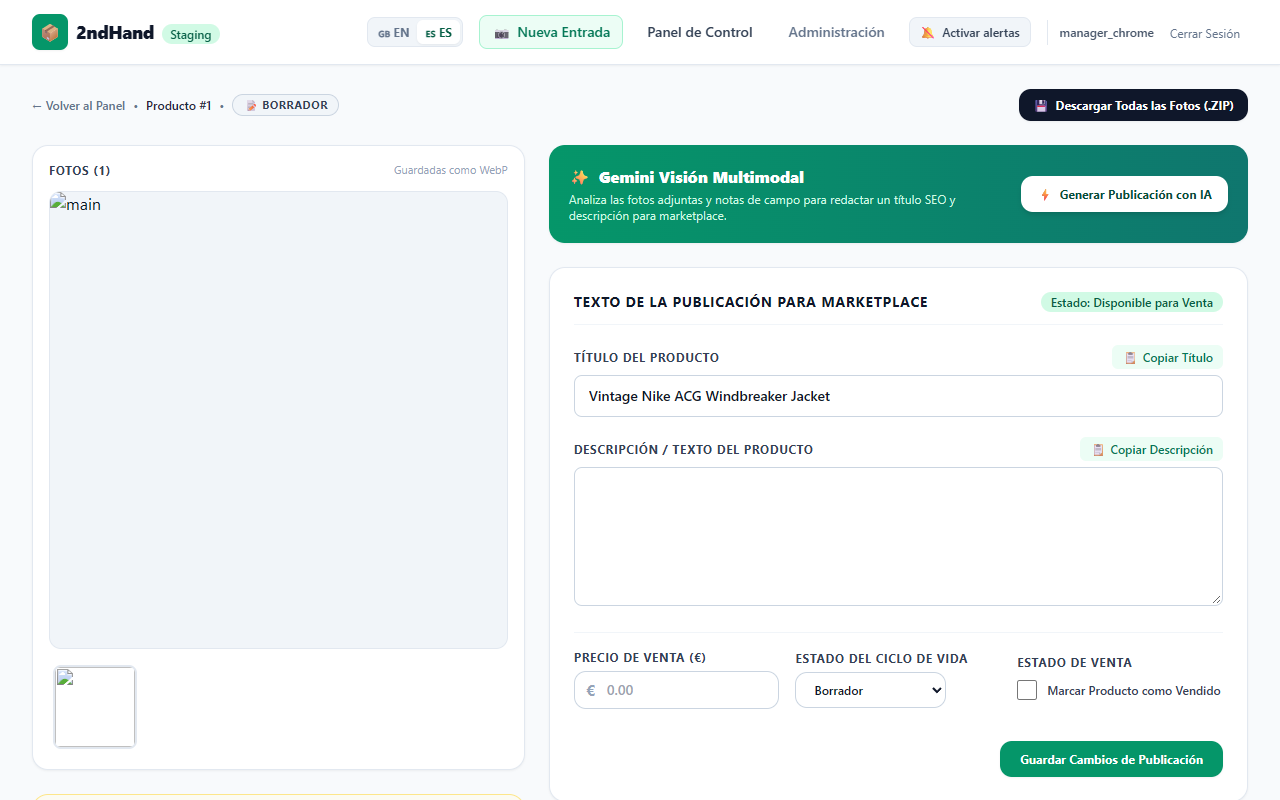
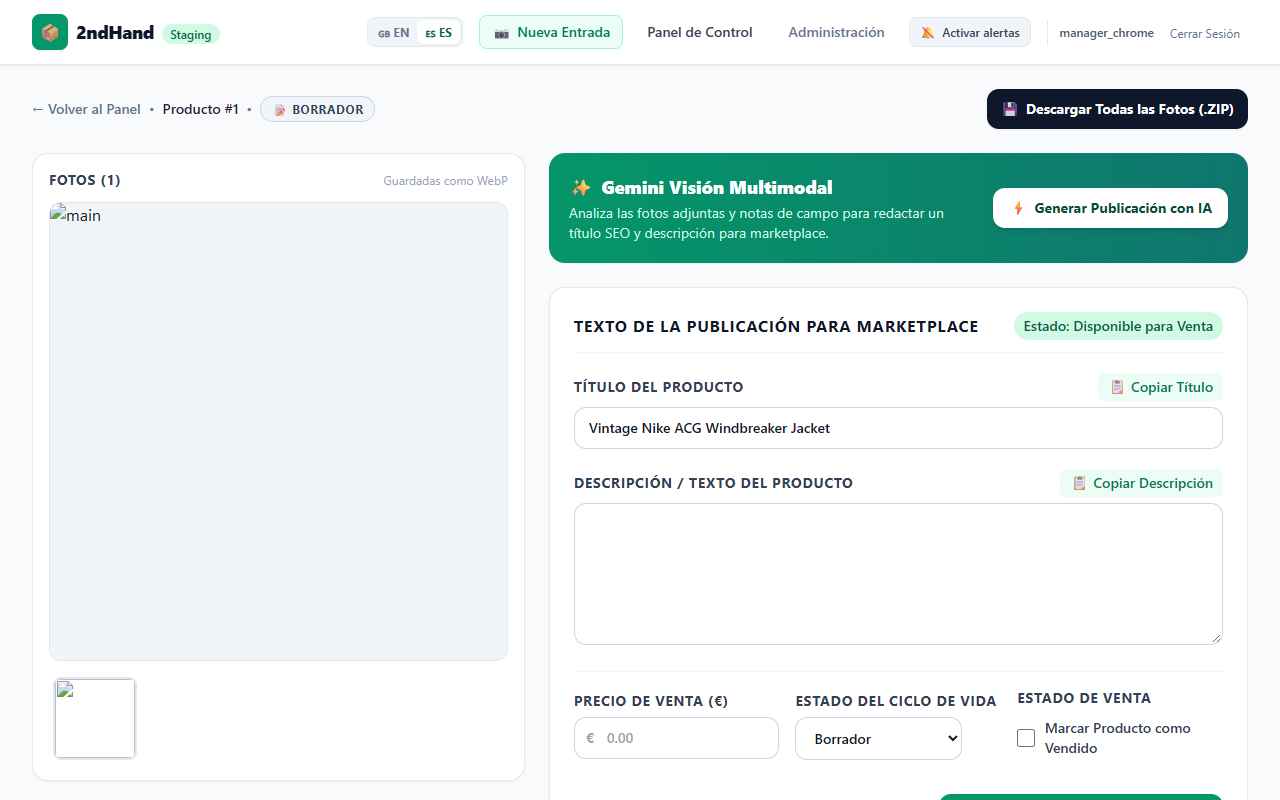
docs(tracking): update CHANGELOG, plan, and todo for Phases 20, 21, and 22
- Document PWA installability, Web Push VAPID infrastructure, and live signal triggers (Phase 20)
- Document dashboard status toolbar modernization and horizontal scroll rail preventing apilacion (Phase 21)
- Document mobile typography scale standardization, micro-font elimination, and iOS auto-zoom prevention (Phase 22)
- Synchronize tasks/plan.md and tasks/todo.md checklists and checkpoints

diff --git a/tasks/todo.md b/tasks/todo.md
@@ -1630,6 +1630,67 @@ Implement `sync_lifecycle_status()` on `Product` and connect signals on `Product
 - [x] `.env` flag `PUSH_NOTIFICATIONS_LIVE_SIGNALS` controls automatic signal-driven push alerts for Clarification Doubts and Draft/Price Pending bottlenecks.
 - [x] All unit tests, browser tests, and Ruff lint checks pass with 0 regressions.
 
+---
+
+## Phase 21: Dashboard Status Toolbar Modernization & Apilación Prevention (Vertical Slice 17)
+
+### Task 70: Horizontal Status Navigation Rail, Toolbar Decoupling & Multi-Viewport Anti-Apilación Verification
+**Description:** Refactor [`inventory/templates/inventory/dashboard.html`](file:///C:/Users/Jose/antigravity/epic-tesla/inventory/templates/inventory/dashboard.html) to decouple the status navigation tabs from the action/filter toolbar (search input and platform selector). Enclose status tabs in an accessible `<nav role="tablist">` with horizontal scrolling (`overflow-x-auto`, `flex-nowrap`, `whitespace-nowrap`, hidden scrollbars) and smooth touch momentum scrolling (`-webkit-overflow-scrolling: touch`). Upgrade all status tab touch targets to $\ge 36\text{px}$ height with responsive padding and badge counters. Add Playwright multi-viewport responsive test `test_dashboard_responsive_tabs_no_apilation` in [`tests/test_dashboard_responsive.py`](file:///C:/Users/Jose/antigravity/epic-tesla/tests/test_dashboard_responsive.py) testing across 390px, 768px, 1024px, and 1440px viewports and asserting that all tabs share identical vertical offset ($\Delta \le 4\text{px}$) with zero apilación.
+**Acceptance criteria:**
+- [x] Status navigation tabs sit in a single horizontal scroll rail without wrapping or piling up vertically across mobile and tablet viewports.
+- [x] Filter toolbar (search and platform select) is cleanly isolated beneath the status rail.
+- [x] All tabs meet WCAG touch target standards ($\ge 36\text{px}$ mobile / $32\text{px}$ desktop).
+- [x] Playwright multi-viewport automated test passes across 4 standard screen widths with audit screenshots captured in `browser_verification_screenshots/`.
+**Verification:**
+- [x] Test passes: `.venv\Scripts\python.exe manage.py test tests.test_dashboard_responsive`
+**Dependencies:** None
+**Files likely touched:**
+- `inventory/templates/inventory/dashboard.html`
+- `tests/test_dashboard_responsive.py`
+**Estimated scope:** Small (2 files)
+
+---
+
+## Checkpoint 21: Dashboard Status Toolbar Modernization Complete
+- [x] Horizontal scroll rail prevents tab apilación across mobile, tablet, laptop, and desktop viewports.
+- [x] Status filter tab touch targets and counter badges satisfy WCAG standards.
+- [x] Playwright multi-viewport responsive tests pass and screenshots are stored for visual audit.
+
+---
+
+## Phase 22: Responsive Mobile Typography & Form Readability Adaptation (Vertical Slice 18)
+
+### Task 71: Standardize Mobile Typography Scale, Eliminate Microscopic Fonts & Prevent iOS Safari Auto-Zoom
+**Description:** Audit and adapt typography across all key application templates ([`base.html`](file:///C:/Users/Jose/antigravity/epic-tesla/inventory/templates/inventory/base.html), [`dashboard.html`](file:///C:/Users/Jose/antigravity/epic-tesla/inventory/templates/inventory/dashboard.html), [`intake.html`](file:///C:/Users/Jose/antigravity/epic-tesla/inventory/templates/inventory/intake.html), [`product_detail.html`](file:///C:/Users/Jose/antigravity/epic-tesla/inventory/templates/inventory/product_detail.html), [`login.html`](file:///C:/Users/Jose/antigravity/epic-tesla/inventory/templates/registration/login.html)) and form widgets ([`inventory/forms.py`](file:///C:/Users/Jose/antigravity/epic-tesla/inventory/forms.py)). Eliminate sub-12px arbitrary font sizes (`text-[10px]`, `text-[11px]`) and static unscaled `text-xs` on primary content, buttons, labels, and badges. Enforce input font sizes $\ge 16\text{px}$ on mobile (`text-base sm:text-sm` and `@media (max-width: 640px) { input, select, textarea { font-size: 1rem !important; } }`) to prevent iOS Safari auto-zoom. Remove `maximum-scale=1.0, user-scalable=no` for WCAG 2.1 AA pinch-to-zoom compliance, and add `<meta name="text-scale" content="scale">` for OS dynamic type preferences. Add Playwright test `test_mobile_typography_and_input_font_sizes` in [`tests/test_dashboard_responsive.py`](file:///C:/Users/Jose/antigravity/epic-tesla/tests/test_dashboard_responsive.py) asserting computed input font-size $\ge 16\text{px}$ on 390x844 mobile viewport and capturing visual screenshots.
+**Acceptance criteria:**
+- [x] Arbitrary `text-[10px]` and `text-[11px]` classes eliminated; critical text scaled to `text-xs sm:text-sm` or `text-sm sm:text-base`.
+- [x] All form inputs render at $\ge 16\text{px}$ on mobile screens preventing involuntary iOS Safari auto-zoom.
+- [x] Viewport meta tag allows pinch-to-zoom up to 200% and `<meta name="text-scale" content="scale">` is active.
+- [x] Full test suite (299 tests) passes cleanly and `ruff check .` passes with 0 issues.
+- [x] Playwright assertions confirm computed font size $\ge 16\text{px}$ on mobile viewports.
+**Verification:**
+- [x] Full test suite passes: `.venv\Scripts\python.exe manage.py test`
+- [x] Responsive tests pass: `.venv\Scripts\python.exe manage.py test tests.test_dashboard_responsive`
+- [x] Linter passes: `.venv\Scripts\ruff.exe check .`
+**Dependencies:** Task 70
+**Files likely touched:**
+- `inventory/templates/inventory/base.html`
+- `inventory/templates/inventory/dashboard.html`
+- `inventory/templates/inventory/intake.html`
+- `inventory/templates/inventory/product_detail.html`
+- `inventory/templates/registration/login.html`
+- `inventory/forms.py`
+- `tests/test_dashboard_responsive.py`
+**Estimated scope:** Medium (7 files)
+
+---
+
+## Checkpoint 22: Responsive Mobile Typography & Form Readability Complete
+- [x] All application views render legible, comfortably readable typography on smartphone screens.
+- [x] Involuntary iOS Safari auto-zoom on form inputs is eliminated with computed font size $\ge 16\text{px}$.
+- [x] Pinch-to-zoom and OS dynamic text scaling preferences are supported.
+- [x] Automated unit and Playwright tests verify 100% compliance with zero regressions.
+
 
 
 

diff --git a/CHANGELOG.md b/CHANGELOG.md
@@ -20,6 +20,26 @@ and this project adheres to [Semantic Versioning](https://semver.org/spec/v2.0.0
   - **Automated Regression Test Suite**: Added end-to-end assertions in [`tests/test_intake.py`](file:///C:/Users/Jose/antigravity/epic-tesla/tests/test_intake.py) (`test_intake_sale_price_displays_in_dashboard_and_product_detail`) and [`tests/test_i18n.py`](file:///C:/Users/Jose/antigravity/epic-tesla/tests/test_i18n.py) verifying that intake prices render properly across dashboard and detail views under both English and Spanish locales.
 
 ### Added
+- **Mobile Typography & High-Readability Adaptation Across All Application Views**:
+  - **Eliminated Arbitrary Sub-12px Font Sizes**: Replaced arbitrary Tailwind classes (`text-[10px]`, `text-[11px]`) and static unscaled `text-xs` (12px) across [`dashboard.html`](file:///C:/Users/Jose/antigravity/epic-tesla/inventory/templates/inventory/dashboard.html), [`intake.html`](file:///C:/Users/Jose/antigravity/epic-tesla/inventory/templates/inventory/intake.html), [`product_detail.html`](file:///C:/Users/Jose/antigravity/epic-tesla/inventory/templates/inventory/product_detail.html), [`login.html`](file:///C:/Users/Jose/antigravity/epic-tesla/inventory/templates/registration/login.html), and [`base.html`](file:///C:/Users/Jose/antigravity/epic-tesla/inventory/templates/inventory/base.html) with responsive, legible type scales (`text-xs sm:text-sm`, `text-sm sm:text-base`).
+  - **iOS Safari Involuntary Auto-Zoom Prevention**: Upgraded all interactive text inputs, selects, and textareas across forms (`ProductIntakeForm`, `ProductUpdateForm`) and templates to render at `>= 16px` (`text-base sm:text-sm`) on mobile viewports with an explicit CSS safeguard:
+    ```css
+    @media (max-width: 640px) {
+      input:not([type="checkbox"]):not([type="radio"]):not([type="hidden"]), select, textarea {
+        font-size: 1rem !important; /* >= 16px prevents iOS Safari auto-zoom */
+      }
+    }
+    ```
+  - **WCAG 2.1 AA Zoom Compliance & OS Dynamic Type Scaling**: Removed `maximum-scale=1.0, user-scalable=no` from [`base.html`](file:///C:/Users/Jose/antigravity/epic-tesla/inventory/templates/inventory/base.html), satisfying WCAG 2.1 AA (SC 1.4.4 Resize text) allowing standard 200% pinch-to-zoom. Added `<meta name="text-scale" content="scale">` to support OS accessibility font scaling preferences.
+  - **Automated Playwright Typography Tests & Mobile Visual Captures**: Added `test_mobile_typography_and_input_font_sizes` in [`tests/test_dashboard_responsive.py`](file:///C:/Users/Jose/antigravity/epic-tesla/tests/test_dashboard_responsive.py) asserting computed `fontSize >= 16px` on standard mobile viewports ($390 \times 844$) and generated visual audit captures: `mobile_login_390x844.png`, `mobile_intake_390x844.png`, and `mobile_product_detail_390x844.png`.
+- **Dashboard Status Toolbar Modernization & Horizontal Scroll Rail (Elimination of Apilación)**:
+  - **Architecture Decoupling**: Refactored [`inventory/templates/inventory/dashboard.html`](file:///C:/Users/Jose/antigravity/epic-tesla/inventory/templates/inventory/dashboard.html) to decouple the status navigation tabs from the action/filter toolbar (search input and platform dropdown), preventing awkward vertical stacking/apilación on mobile and tablet devices.
+  - **Single-Line Horizontal Scroll Rail**: Built a dedicated `<nav role="tablist">` container utilizing `overflow-x-auto`, `flex-nowrap`, and `whitespace-nowrap` with vendor-prefixed scrollbar suppression (`scrollbar-none`, `-webkit-overflow-scrolling: touch`), allowing all 7 lifecycle status tabs (*Todos*, *Activo*, *Precio pendiente*, *Listo para publicar*, *Dudas*, *Bloqueado*, *Vendido*) to sit on a clean, scrollable horizontal track without wrapping.
+  - **WCAG 2.1 AA Touch Targets**: Upgraded all status tab links to full-height touch targets (minimum 36px–40px height on mobile / 32px on desktop) with prominent pill counters and focus indicators.
+  - **Automated Playwright Multi-Viewport Verification**: Added `test_dashboard_responsive_tabs_no_apilation` in [`tests/test_dashboard_responsive.py`](file:///C:/Users/Jose/antigravity/epic-tesla/tests/test_dashboard_responsive.py) executing real Chrome tests across 4 standard viewports (390px, 768px, 1024px, 1440px), verifying tab rail visibility, touch target heights, and strictly asserting that all tabs share the same vertical offset ($\Delta \le 4\text{px}$) with zero apilación. Captured visual audit screenshots in `browser_verification_screenshots/`.
+- **Automated E2E Workday Verification Suite & Comprehensive Normal Day Workflows**:
+  - Implemented comprehensive workday automated workflow script [`verify_workday_all_cases.py`](file:///C:/Users/Jose/antigravity/epic-tesla/verify_workday_all_cases.py) and test suite covering all cases and combinations: assistant login, intake preflight, clarification question creation, doubts filtering, assistant reply, auto-transition to ready, price pending staging, sale price assignment, external marketplace link management (Vinted, Wallapop), sold status marking, and unsold status reversal.
+  - Captured full visual verification screenshots in `browser_verification_screenshots/`.
 - **Installable PWA Support, VAPID Web Push Infrastructure & `.env`-Guarded Live Signal Triggers**:
   - **W3C Web App Manifest & Icons**: Added [`manifest_view`](file:///C:/Users/Jose/antigravity/epic-tesla/inventory/views.py) serving `/manifest.json` (`display: standalone`, `scope: /`, `theme_color: #059669`, shortcuts for Intake, Dashboard, and Pending Doubts) and generated branded PNG icons (`icon-192.png`, `icon-512.png`, `apple-touch-icon.png`) under `inventory/static/inventory/icons/`.
   - **Root Pass-Through Service Worker (`/sw.js`)**: Added [`service_worker_view`](file:///C:/Users/Jose/antigravity/epic-tesla/inventory/views.py) and [`inventory/templates/inventory/sw.js`](file:///C:/Users/Jose/antigravity/epic-tesla/inventory/templates/inventory/sw.js) with `Service-Worker-Allowed: /`, zero-cache pass-through `fetch` handler (preventing stale HTML/CSRF tokens), `push` notification display with `tag` deduplication and `navigator.setAppBadge` support, and `notificationclick` deep-linking.

diff --git a/tasks/plan.md b/tasks/plan.md
@@ -257,11 +257,23 @@ All uploaded photos are postprocessed on the server with Pillow to auto-orient, 
 ---
 
 ### Phase 20: Installable PWA Support, VAPID Web Push Infrastructure & Live Signal Triggers (Vertical Slice 16)
-- [ ] **Task 66:** PWA Web App Manifest (`/manifest.json`), App Icons (`192x192`, `512x512`, `apple-touch-icon`), Meta Tags & Root Pass-Through Service Worker (`/sw.js`) (`inventory/views.py`, `inventory/urls.py`, `inventory/templates/inventory/sw.js`, `inventory/templates/inventory/base.html`, `inventory/static/inventory/icons/`).
-- [ ] **Task 67:** `PushSubscription` Model, VAPID Settings, `generate_vapid_keys` Command, Django Admin Action & `push_service.py` Dispatcher (`requirements.txt`, `config/settings.py`, `.env.example`, `inventory/models.py`, `inventory/migrations/0013_pushsubscription.py`, `inventory/admin.py`, `inventory/services/push_service.py`, `inventory/management/commands/generate_vapid_keys.py`).
-- [ ] **Task 68:** Push Subscription JSON API Endpoints (`/api/push/subscribe/`, `/api/push/unsubscribe/`, `/api/push/test/`), Navbar/Drawer Notification Toggle UI & `.env`-Guarded Live Workflow Signals (`inventory/views.py`, `inventory/urls.py`, `inventory/context_processors.py`, `inventory/models.py`, `inventory/templates/inventory/base.html`).
-- [ ] **Task 69:** Bilingual Localization (`es`/`en`), Comprehensive Unit & Integration Test Suite (`tests/test_pwa_push.py`) & Real Chrome Browser Verification (`locale/es/LC_MESSAGES/django.po`, `locale/es/LC_MESSAGES/django.mo`, `tests/test_pwa_push.py`, `CHANGELOG.md`).
-- [ ] **Checkpoint 20 (PWA Support & Web Push Notifications Complete):** `/manifest.json` and root `/sw.js` register cleanly with scope `/`; PWA icons and meta tags render across pages; `PushSubscription` model and VAPID key generator work; subscribe/unsubscribe/test endpoints and navbar/drawer UI toggles function properly; `push_service.py` dispatches encrypted Web Push payloads and prunes `404`/`410` subscriptions; `PUSH_NOTIFICATIONS_LIVE_SIGNALS` controls automatic signal alerts for Clarification Doubts and Draft/Price Pending bottlenecks; all unit and browser tests pass with 0 regressions.
+- [x] **Task 66:** PWA Web App Manifest (`/manifest.json`), App Icons (`192x192`, `512x512`, `apple-touch-icon`), Meta Tags & Root Pass-Through Service Worker (`/sw.js`) (`inventory/views.py`, `inventory/urls.py`, `inventory/templates/inventory/sw.js`, `inventory/templates/inventory/base.html`, `inventory/static/inventory/icons/`).
+- [x] **Task 67:** `PushSubscription` Model, VAPID Settings, `generate_vapid_keys` Command, Django Admin Action & `push_service.py` Dispatcher (`requirements.txt`, `config/settings.py`, `.env.example`, `inventory/models.py`, `inventory/migrations/0013_pushsubscription.py`, `inventory/admin.py`, `inventory/services/push_service.py`, `inventory/management/commands/generate_vapid_keys.py`).
+- [x] **Task 68:** Push Subscription JSON API Endpoints (`/api/push/subscribe/`, `/api/push/unsubscribe/`, `/api/push/test/`), Navbar/Drawer Notification Toggle UI & `.env`-Guarded Live Workflow Signals (`inventory/views.py`, `inventory/urls.py`, `inventory/context_processors.py`, `inventory/models.py`, `inventory/templates/inventory/base.html`).
+- [x] **Task 69:** Bilingual Localization (`es`/`en`), Comprehensive Unit & Integration Test Suite (`tests/test_pwa_push.py`) & Real Chrome Browser Verification (`locale/es/LC_MESSAGES/django.po`, `locale/es/LC_MESSAGES/django.mo`, `tests/test_pwa_push.py`, `CHANGELOG.md`).
+- [x] **Checkpoint 20 (PWA Support & Web Push Notifications Complete):** `/manifest.json` and root `/sw.js` register cleanly with scope `/`; PWA icons and meta tags render across pages; `PushSubscription` model and VAPID key generator work; subscribe/unsubscribe/test endpoints and navbar/drawer UI toggles function properly; `push_service.py` dispatches encrypted Web Push payloads and prunes `404`/`410` subscriptions; `PUSH_NOTIFICATIONS_LIVE_SIGNALS` controls automatic signal alerts for Clarification Doubts and Draft/Price Pending bottlenecks; all unit and browser tests pass with 0 regressions.
+
+---
+
+### Phase 21: Dashboard Status Toolbar Modernization & Apilación Prevention (Vertical Slice 17)
+- [x] **Task 70:** Decouple Dashboard Status Navigation & Filter Toolbar into a Single-Line Horizontal Scroll Rail (`inventory/templates/inventory/dashboard.html`, `tests/test_dashboard_responsive.py`).
+- [x] **Checkpoint 21 (Anti-Apilación Toolbar Complete):** All 7 status tabs sit inside an accessible `<nav role="tablist">` with horizontal scrolling and hidden scrollbars; tabs never wrap or apilar on mobile/tablet viewports; touch targets satisfy WCAG ($\ge 36\text{px}$); Playwright multi-viewport automated test verifies vertical offset alignment across 390px, 768px, 1024px, and 1440px with screenshots captured.
+
+---
+
+### Phase 22: Responsive Mobile Typography & Form Readability Adaptation (Vertical Slice 18)
+- [x] **Task 71:** Standardize Mobile Typography Scale, Eliminate Microscopic Fonts, and Safeguard Against iOS Safari Input Auto-Zoom (`inventory/templates/inventory/base.html`, `inventory/templates/inventory/dashboard.html`, `inventory/templates/inventory/intake.html`, `inventory/templates/inventory/product_detail.html`, `inventory/templates/registration/login.html`, `inventory/forms.py`, `tests/test_dashboard_responsive.py`).
+- [x] **Checkpoint 22 (Mobile Typography Complete):** Sub-12px arbitrary classes (`text-[10px]`, `text-[11px]`) eliminated; inputs, selects, and textareas enforce $\ge 16\text{px}$ on mobile (`text-base sm:text-sm` and CSS override); `maximum-scale=1.0, user-scalable=no` removed for WCAG 2.1 AA zoom compliance; `<meta name="text-scale" content="scale">` added; Playwright test asserts computed input font size $\ge 16\text{px}$ on $390 \times 844$ with full visual screenshots.
 
 
 
